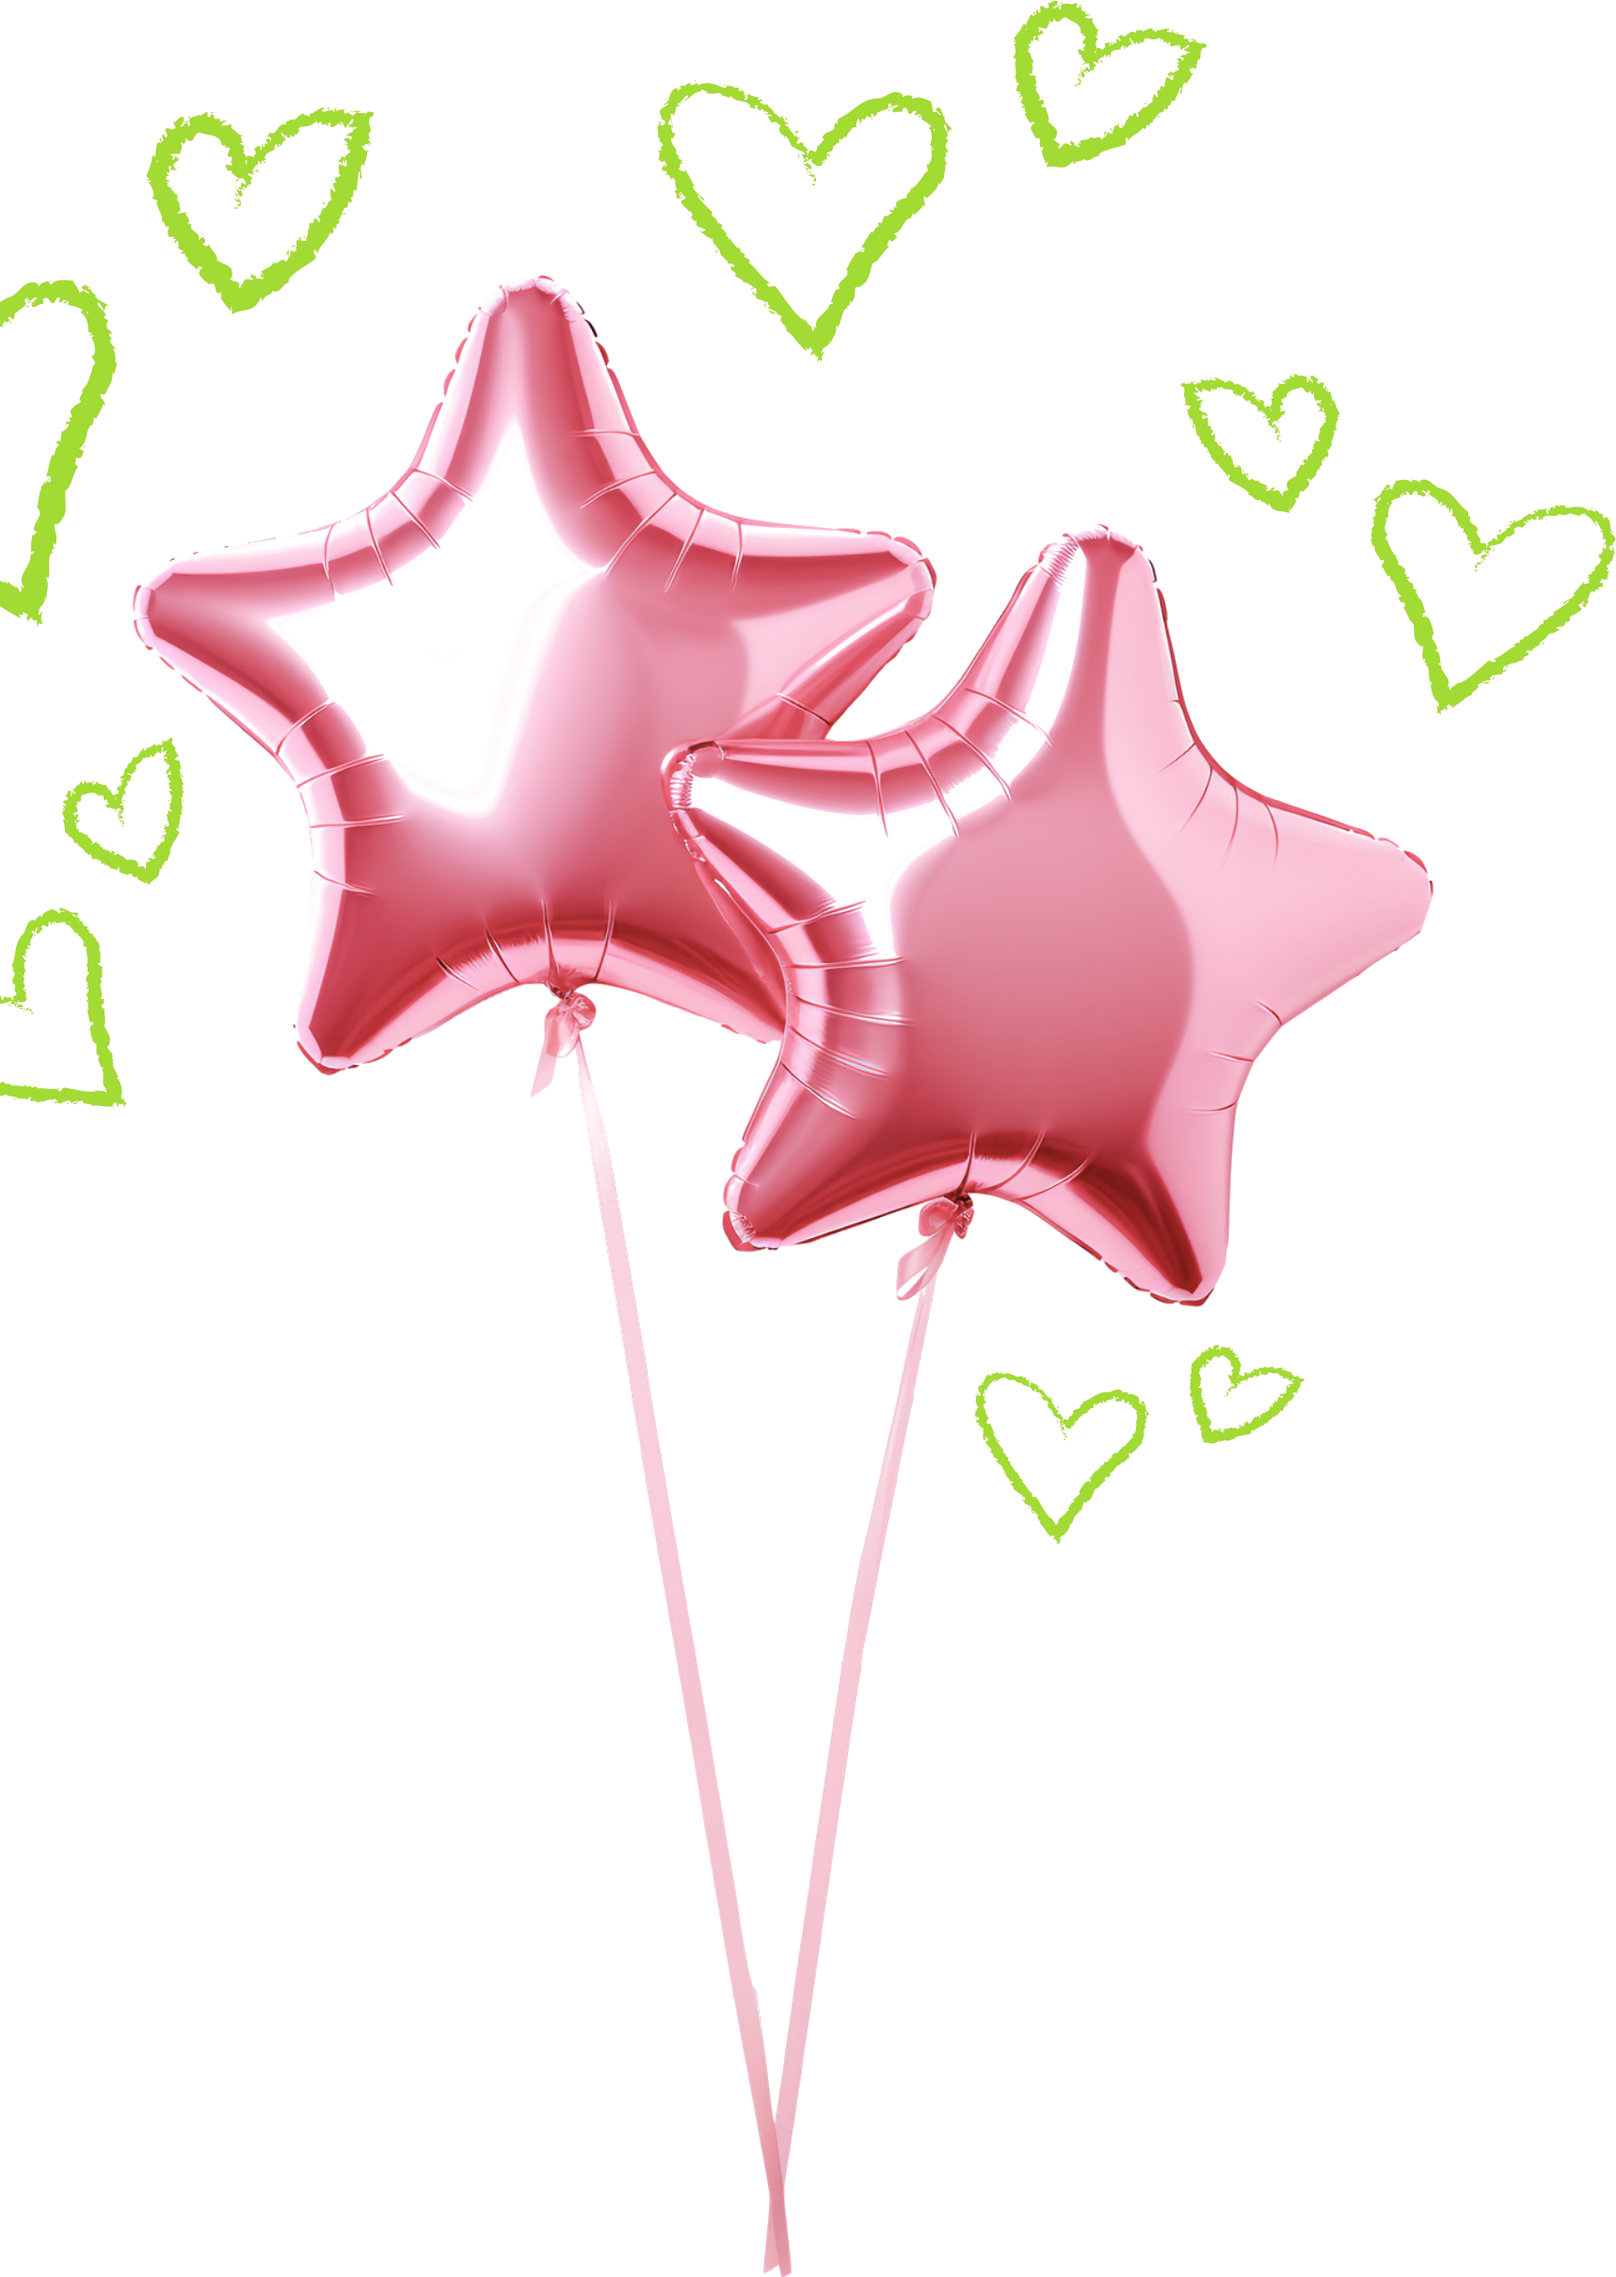
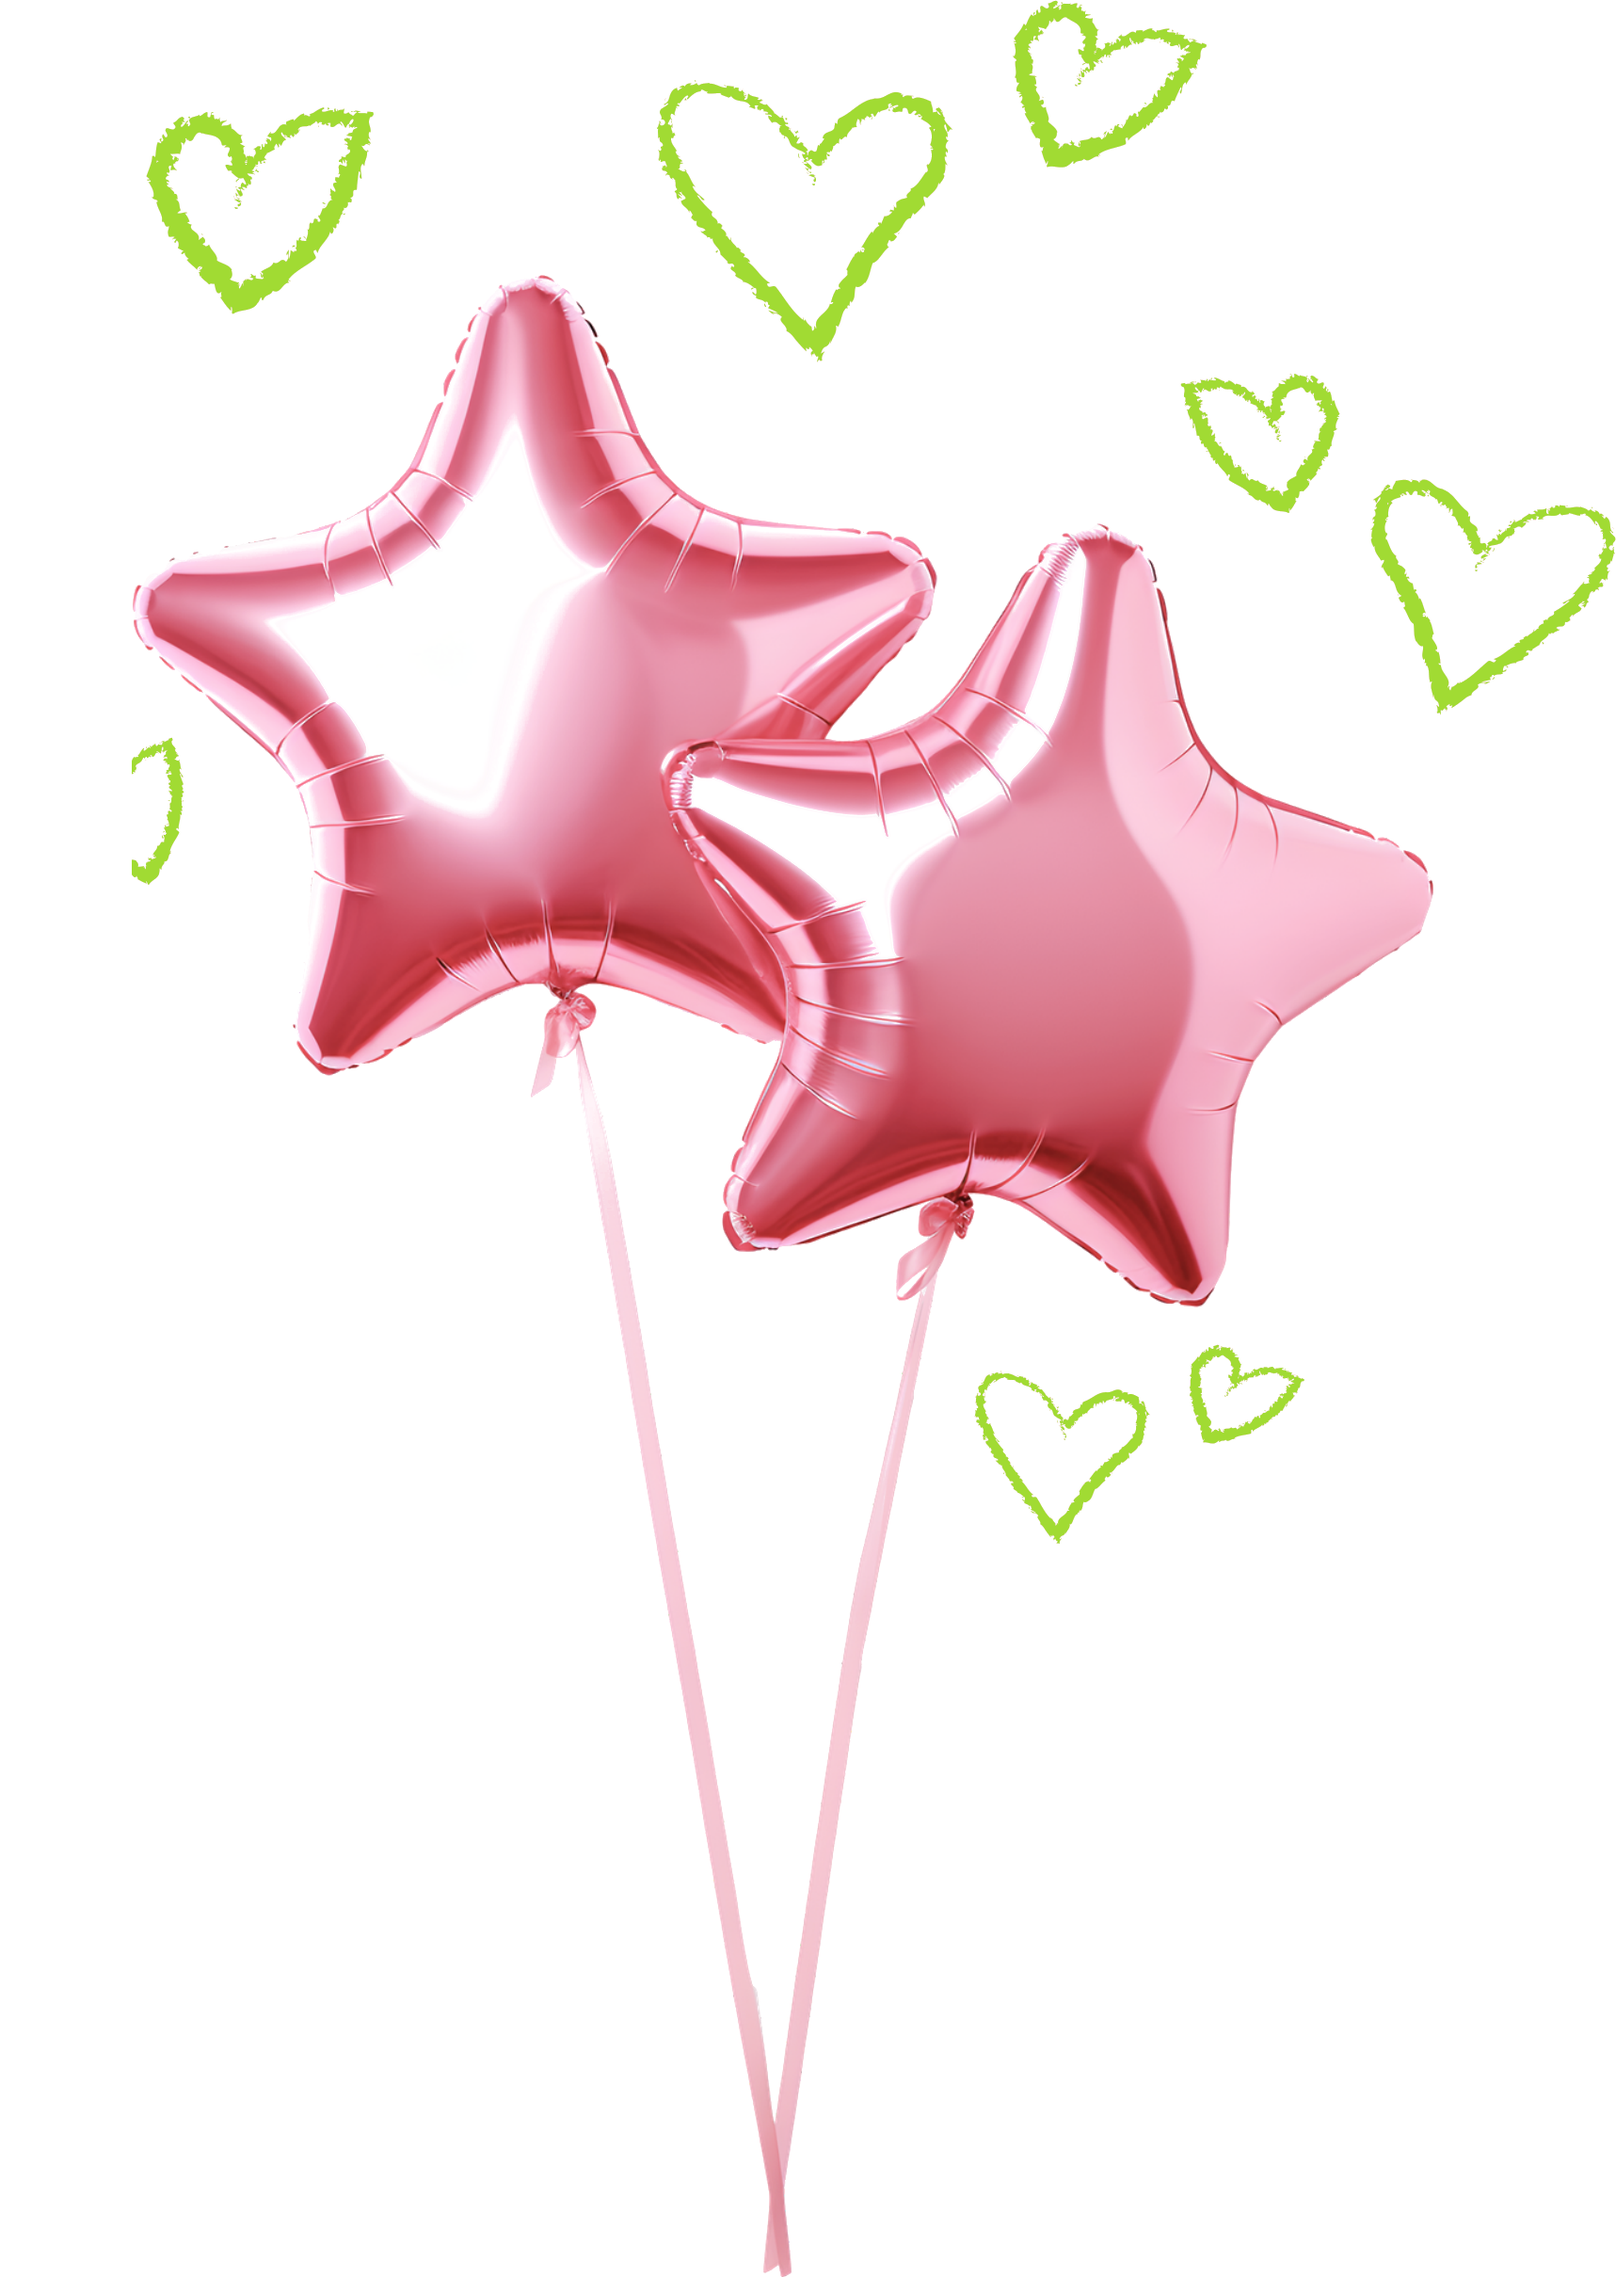
Preparar la invitación final para GitHub Pages

Changed region(s): [[0.0, 0.3411, 0.0926, 0.4961], [0.0, 0.124, 0.0926, 0.279]]

diff --git a/index.html b/index.html
@@ -242,7 +242,8 @@
     .rsvp-star.four{left:-9px;bottom:29%;width:65px;opacity:.18;animation-delay:-.6s;transform:rotate(-9deg)}
     .rsvp-star.five{right:33%;top:16px;width:23px;opacity:.34;animation-delay:-3.2s;transform:rotate(21deg)}
     .rsvp-panel h2{font:700 clamp(2.3rem,8vw,3.3rem)/1 "Caveat",cursive;color:var(--wine);margin:0 0 8px}
-    .rsvp-intro{margin:0 0 22px;color:#765466;font:500 1.04rem/1.5 "DM Serif Display",Georgia,serif;font-style:italic}
+    .rsvp-intro{margin:0 0 8px;color:#765466;font:500 1.04rem/1.5 "DM Serif Display",Georgia,serif;font-style:italic}
+    .rsvp-deadline{margin:0 0 22px;color:var(--wine);font:italic 1rem/1.5 "DM Serif Display",Georgia,serif;text-wrap:balance}
     .guest-name{display:block;max-width:460px;margin:0 auto 20px;text-align:left;font-size:.78rem;font-weight:700;color:var(--wine)}
     .guest-name input{display:block;width:100%;height:50px;margin-top:7px;padding:0 15px;border:1.5px solid rgba(141,35,73,.3);border-radius:14px;background:#fffafc;color:var(--ink);font:500 1rem "DM Sans",sans-serif}
     .guest-name input:focus{outline:3px solid rgba(156,219,47,.48);border-color:var(--wine)}
@@ -426,6 +427,7 @@
       <img class="rsvp-star five" src="assets/extras/glitter-star-pink.png" alt="" aria-hidden="true" />
       <h2 id="rsvpTitle">♡ ¿Vienes? ♡</h2>
       <p class="rsvp-intro">Dime si te apuntas y qué te gustaría pedir, así puedo organizar todo ♡</p>
+      <p class="rsvp-deadline">Porfis, confirma si vienes hasta el <time datetime="2026-12-02">miércoles 2 de diciembre</time> ♡</p>
       <form id="rsvpForm" novalidate>
         <label class="guest-name" for="guestName">Tu nombre
           <input id="guestName" name="guestName" type="text" autocomplete="name" placeholder="Escribe tu nombre" required />

diff --git a/posiciones.js b/posiciones.js
@@ -1,7 +1,13 @@
 /* Posiciones guardadas desde el modo edición (doble clic en editar.command).
    Para volver al diseño original, deja solo: window.POSICIONES = {}; */
 window.POSICIONES = {
-  "movil": {},
+  "movil": {
+    "invitacion:disco-art#1": {
+      "l": 74.2,
+      "t": 1.5,
+      "w": 21.43
+    }
+  },
   "pc": {
     "invitacion:balloons-hearts-art#1": {
       "l": 75.04,
@@ -46,6 +52,60 @@ window.POSICIONES = {
     "invitacion:inv-glitter.three#1": {
       "l": 81.05,
       "t": 83.58
+    },
+    "sobre:intro-deco.intro-disco#1": {
+      "w": 13.21
+    },
+    "sobre:intro-deco.intro-hearts#1": {
+      "l": 84.32,
+      "t": 54.09
+    },
+    "sobre:intro-deco.intro-popper#1": {
+      "l": 2.55,
+      "t": 67.96
+    },
+    "sobre:spark.s1#1": {
+      "l": 14.1,
+      "t": 33.98
+    },
+    "sobre:intro-deco.intro-star.two#1": {
+      "l": 25.18,
+      "t": 18.01
+    },
+    "sobre:intro-deco.intro-bunting-pink#1": {
+      "l": -9.14,
+      "t": -25.08,
+      "r": -5
+    },
+    "copia-mwtxrbz7": {
+      "l": 29.15,
+      "t": 11.28,
+      "w": 2.42,
+      "r": 10
+    },
+    "copia-mwtxsix2": {
+      "l": 32.7,
+      "t": 21.83,
+      "w": 2,
+      "r": 10
+    },
+    "sobre:intro-deco.intro-bunting-green#1": {
+      "l": -12.3,
+      "t": -8.44,
+      "z": 0
+    },
+    "copia-mwtxsxhl": {
+      "l": 34.99,
+      "t": 25.72,
+      "w": 2,
+      "r": 10
     }
-  }
+  },
+  "sinRecorte": true,
+  "copias": {
+    "copia-mwtxrbz7": "sobre:intro-deco.intro-star.two#1",
+    "copia-mwtxsix2": "sobre:intro-deco.intro-star.two#1",
+    "copia-mwtxsxhl": "sobre:intro-deco.intro-star.two#1"
+  },
+  "textos": {}
 };
